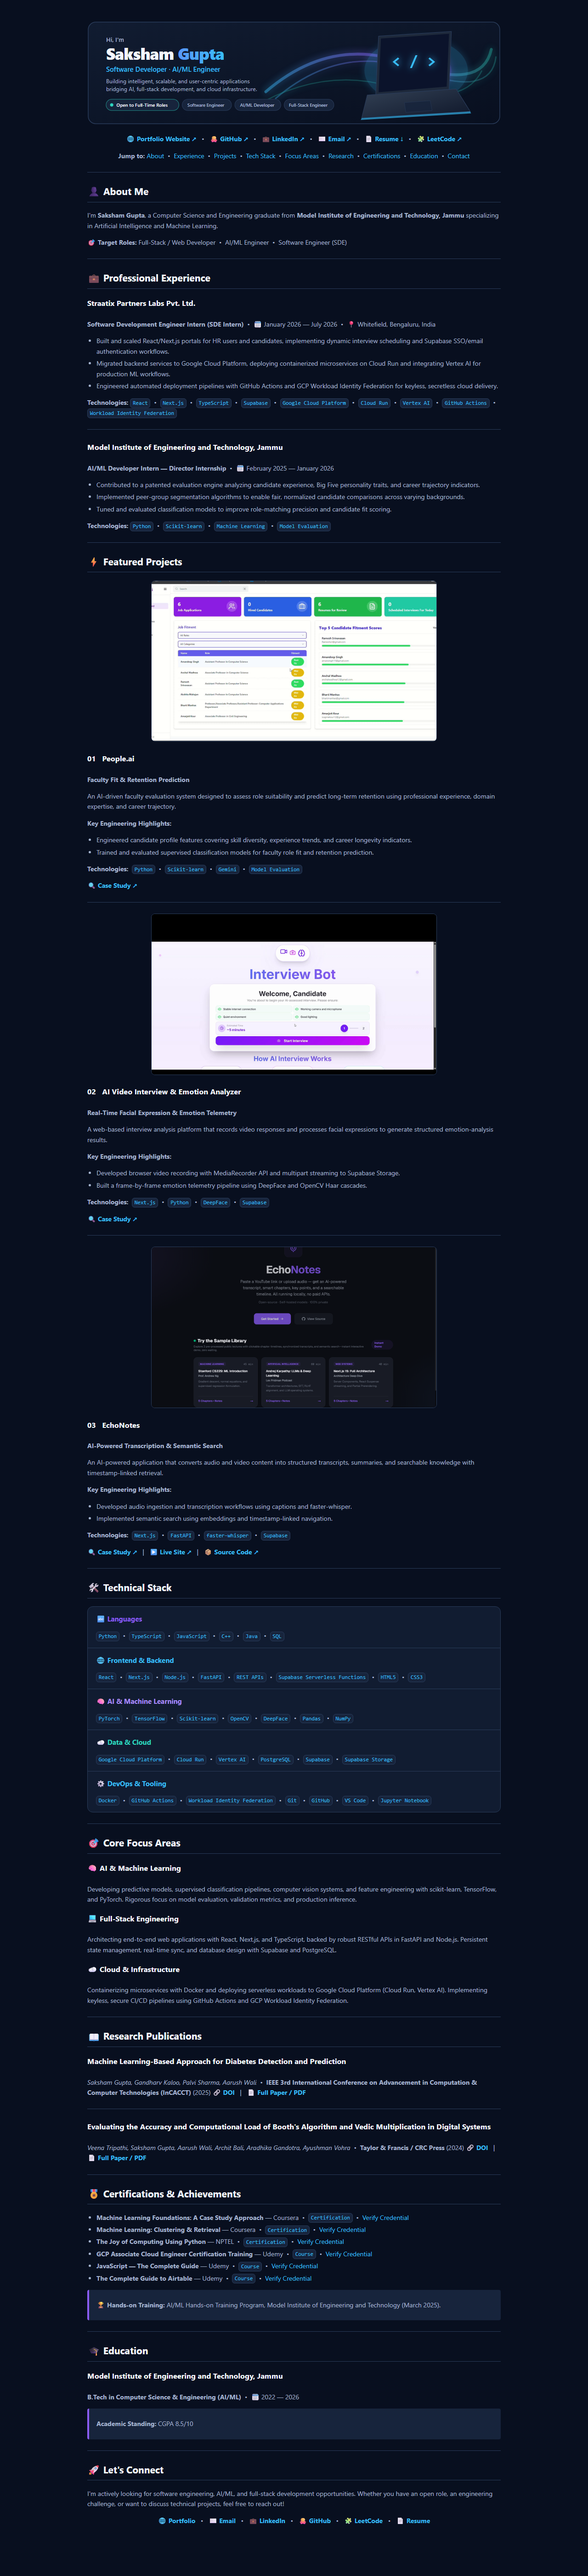
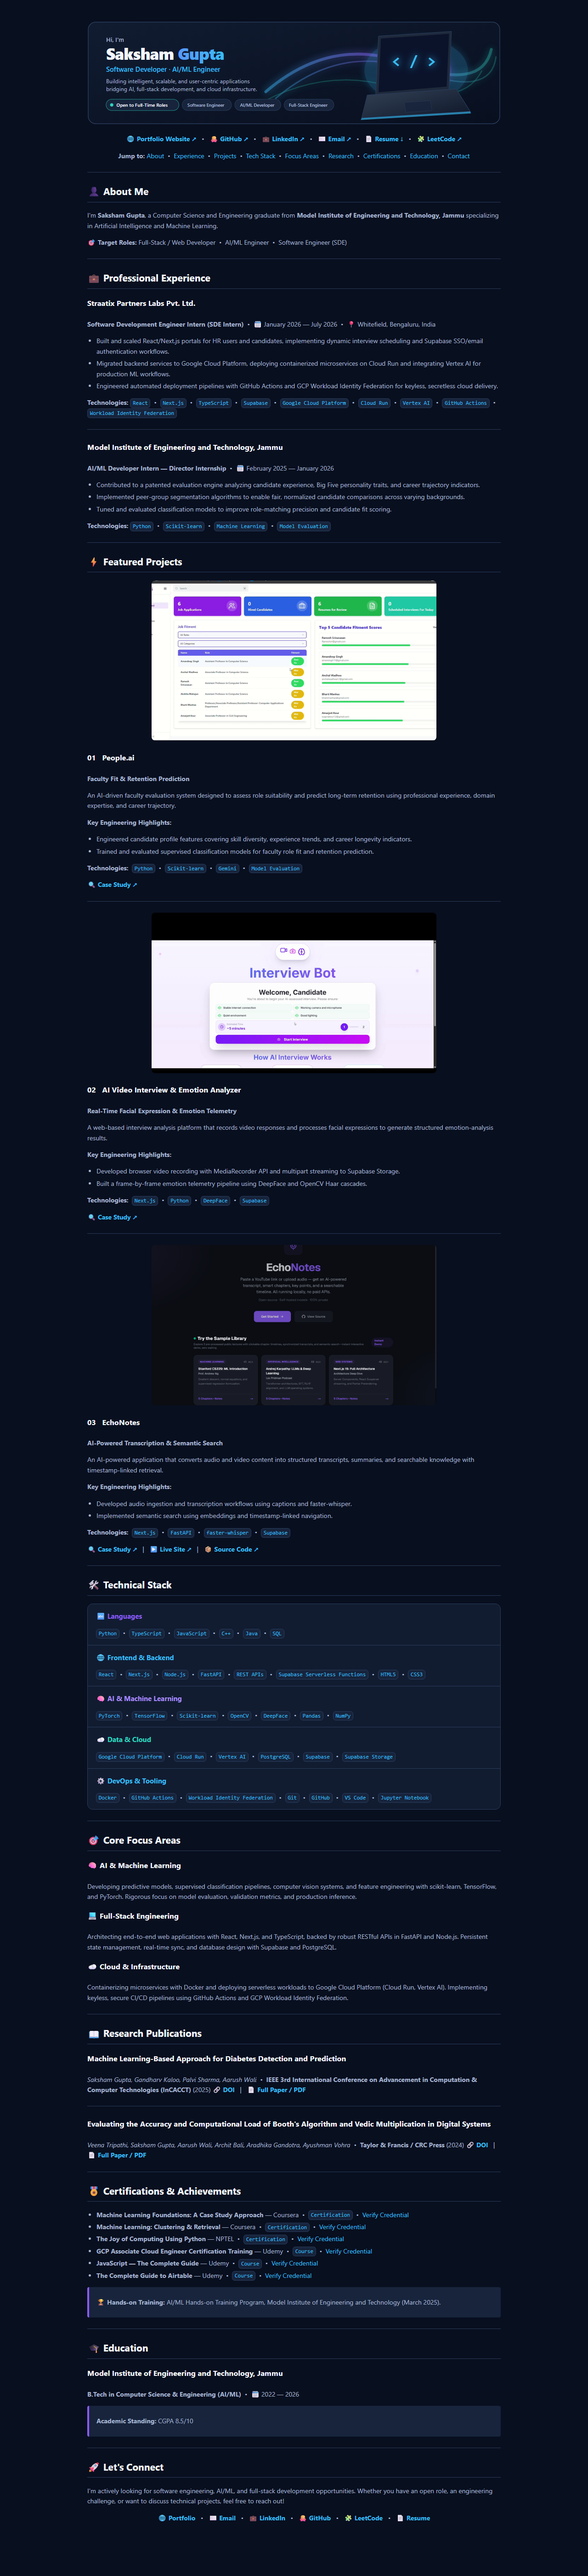
refactor(projects): remove inline CSS style from img; use standard HTML width and align attributes

diff --git a/README.md b/README.md
@@ -64,7 +64,7 @@ I'm **Saksham Gupta**, a Computer Science and Engineering graduate from **Model 
 
 <a id="people-ai"></a>
 <p align="center">
-  <img src="assets/projects/people-ai.png" alt="People.ai" width="620" style="max-width: 100%; border-radius: 8px; border: 1px solid #293B59;">
+  <img src="assets/projects/people-ai.png" alt="People.ai" width="620">
 </p>
 
 ### 01 &nbsp; People.ai
@@ -93,7 +93,7 @@ I'm **Saksham Gupta**, a Computer Science and Engineering graduate from **Model 
 
 <a id="ai-video-interview-emotion-analyzer"></a>
 <p align="center">
-  <img src="assets/projects/interview-analyzer.png" alt="AI Video Interview & Emotion Analyzer" width="620" style="max-width: 100%; border-radius: 8px; border: 1px solid #293B59;">
+  <img src="assets/projects/interview-analyzer.png" alt="AI Video Interview & Emotion Analyzer" width="620">
 </p>
 
 ### 02 &nbsp; AI Video Interview & Emotion Analyzer
@@ -122,7 +122,7 @@ I'm **Saksham Gupta**, a Computer Science and Engineering graduate from **Model 
 
 <a id="echonotes"></a>
 <p align="center">
-  <img src="assets/projects/echonotes.png" alt="EchoNotes" width="620" style="max-width: 100%; border-radius: 8px; border: 1px solid #293B59;">
+  <img src="assets/projects/echonotes.png" alt="EchoNotes" width="620">
 </p>
 
 ### 03 &nbsp; EchoNotes
